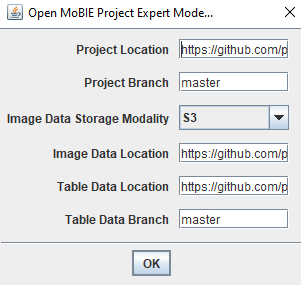
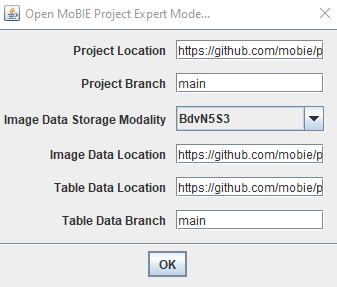
update expert mode tutorial

diff --git a/tutorials/expert_mode.md b/tutorials/expert_mode.md
@@ -5,9 +5,9 @@ choose where different aspects of your project (e.g. images and tables) are load
 to have a mix of local and remote access, or remote access from multiple locations.
 
 You can control three aspects:
-- **Project Location** The location of all your project metadata (e.g. information about your datasets and images, bookmarks...)
+- **Project Location** The location of all your project metadata (e.g. information about your datasets and images, views...)
 - **Image Data Location** The location of your images.
-- **Table Data Location** The location of your tabular data. 
+- **Table Data Location** The location of your tabular data.
 
 ### Common use cases
 
@@ -18,11 +18,11 @@ You can control three aspects:
 - Table Data Location: your own fork of that repository, or a local clone of it (where you've added or modified tables)
 
 
-**I'm using an existing project (remote), but want to modify tables, and bookmarks**
+**I'm using an existing project (remote), but want to modify tables, and views**
 
-- Project Location: your own fork of that repository, or a local clone of it (where you've changed bookmarks and tables)
+- Project Location: your own fork of that repository, or a local clone of it (where you've changed views and tables)
 - Image Data Location: project github repository
-- Table Data Location: your own fork of that repository, or a local clone of it (where you've changed bookmarks and tables)
+- Table Data Location: your own fork of that repository, or a local clone of it (where you've changed views and tables)
 
 
 **I'm working with a local project on my file system, but want separate control of all metadata / tables**
@@ -34,7 +34,7 @@ You can control three aspects:
 
 ### Opening expert mode
 
-To open expert mode, type **mobie** in the Fiji search bar, and select 
+To open expert mode, type **mobie** in the Fiji search bar, and select
 **Open MoBIE Project Expert Mode...**
 
 <img width="600" alt="image" src="./tutorial_images/mobie_expert_command.png">
@@ -42,10 +42,10 @@ To open expert mode, type **mobie** in the Fiji search bar, and select
 This will bring up a dialog, as below:
 
  <img width="300" alt="image" src="./tutorial_images/expertModeDialog.png">
- 
- - **Project Location** - github repository, or local file path
+
+ - **Project Location** - github repository, s3 location or local file path
  - **Project Branch** - which git branch to load data from
- - **Image Data Storage Modality** - s3 for remote images, FileSystem for local images
- - **Image Data Location** - github repository (will load from remote), or local file path
- - **Table Data Location** - github repository, or local file path
+ - **Image Data Storage Modality** - Which image format to use. Those that end with S3 are for remote access, the rest local.
+ - **Image Data Location** - github repository, s3 location, or local file path
+ - **Table Data Location** - github repository, s3 location or local file path
  - **Table Data Branch** - which git branch to load data from
